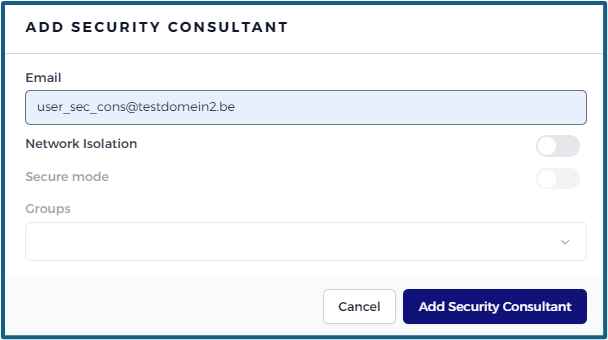
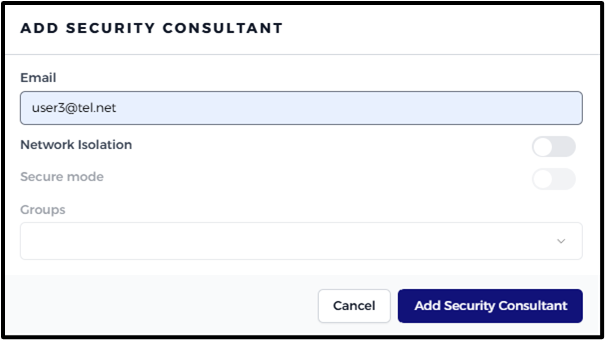
13th of december 2024

Changed region(s): [[0.0, 0.0, 1.0, 1.0]]

diff --git a/company/users/users.md b/company/users/users.md
@@ -63,7 +63,7 @@ prominently located at the upper right corner of the interface.
 
    - **How to add a security consultant:**
 
-      - Go to the partner of the customer where you want to add the security consultant to. In the example, that is **User2**. 
+      - Go to the partner of the customer where you want to add the security consultant to. In the example, that is **Testpartner**. 
 
        ![user_in_integrator.png](/user_in_integrator.png ':size=800')
 
@@ -71,11 +71,11 @@ prominently located at the upper right corner of the interface.
 
         ![create_sec_cons.png](/create_sec_cons.png ':size=500x300')
 
-      -After creating that user (e.g.: ' user_sec_cons@testdomein2.be') select the correct **Customer** and then the option "Users". Choose 
+      -After creating that user (e.g.: ' user3@tel.net') select the correct **Customer** and then the option "Users". Choose 
        ![btn_add_consultant.png](/btn_add_consultant.png ':size=150x25')
       
       
-      The email that must provided is the one of the user just created in previous step (' user_sec_cons@testdomein2.be'). That user becomes a Security Consultant for that company.
+      The email that must provided is the one of the user just created in previous step (' user3@tel.net'). That user becomes a Security Consultant for that company.
 
       ![add_sec_cons.png](/add_sec_cons.png ':size=500x300')
 

diff --git a/advanced/hypervisorinstallation/hypervisorinstallation.md b/advanced/hypervisorinstallation/hypervisorinstallation.md
@@ -10,10 +10,15 @@ The following minimum hardware settings must be set:
 
 #### VMware ESXi
 
-When installing the network controller on-prem on ESXi, you need to make sure to select BIOS as the firmware type:
+Setting the hardware: 
+
+![virt_hardware esxi.png](virt_hardware_esxi.png ':size=500')
 
 
-![esxi_specs.png](esxi_specs.png ':size=700')
+Setting the options: make sure to select BIOS as the firmware type.
+
+
+![vm_options esxi.png](vm_options_esxi.png ':size=500')
 
 
 #### Hyper-V
@@ -46,7 +51,7 @@ Here you have to choose between Generation 1 or Generation 2. If you are not sur
 
 ![installation_options.png](installation_options.png ':size=500')
 
-7. Next step is a summary of the chosen options. After hitting the 'Finish'-button the installation begins as described above.
+7. Next step is a summary of the chosen options. After hitting the 'Finish'-button the installation begins as described [here](/./devices/networkcontrollerssetup/SettingUpServer.md).
 
 > [!Warning]
 > After installation you have to restart the server and you could face this error message:
